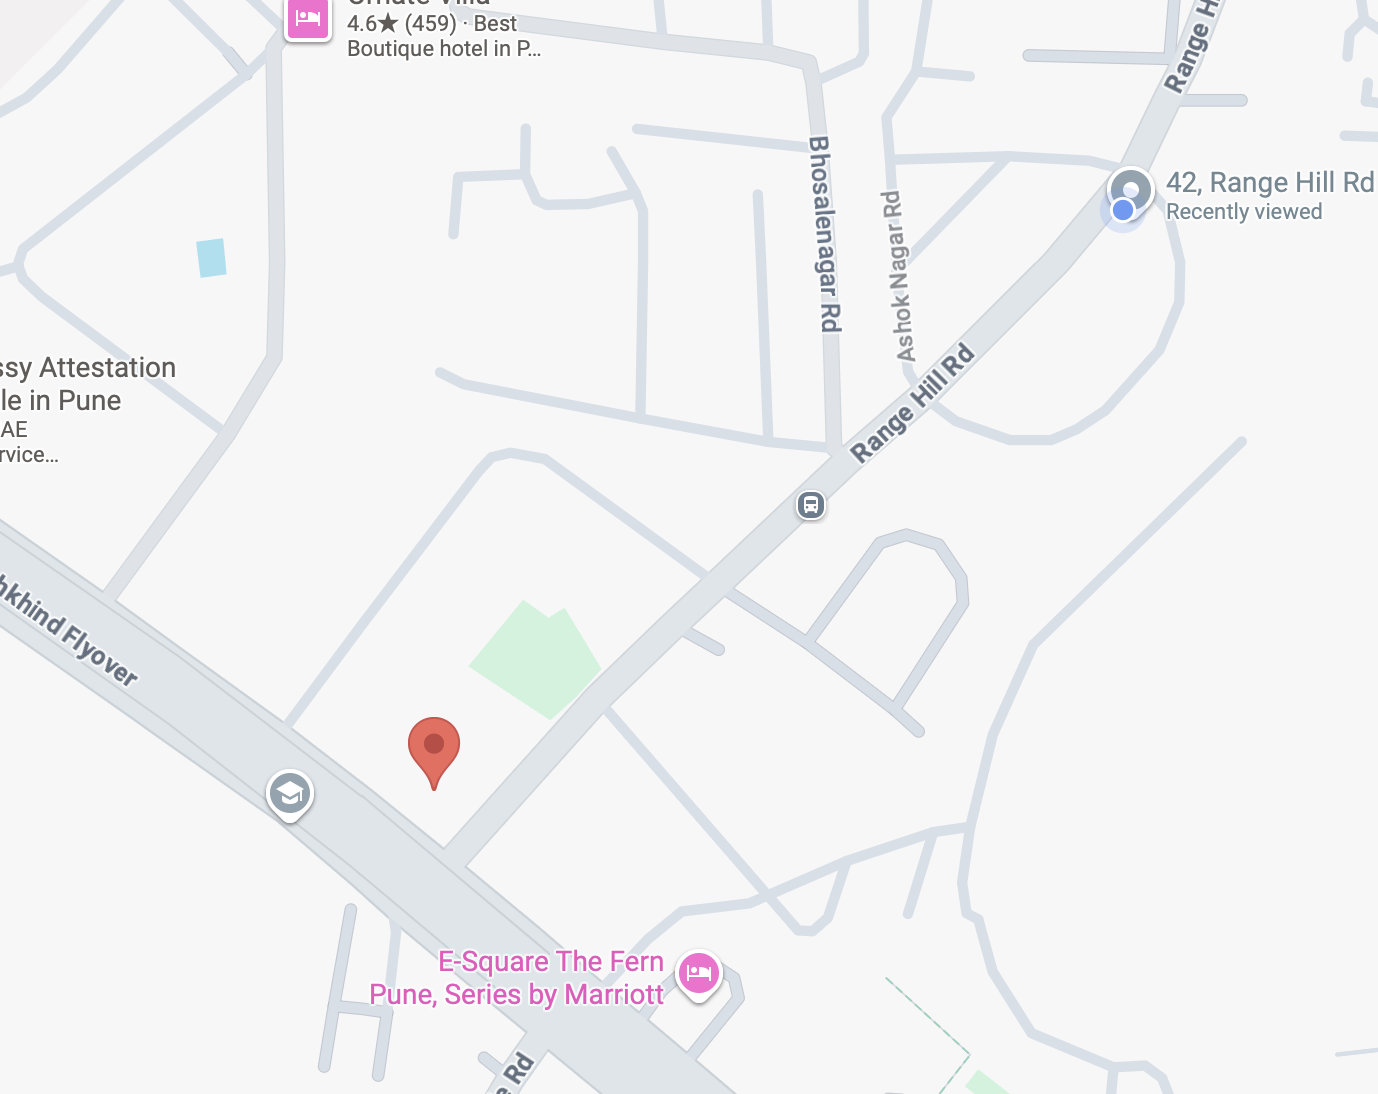
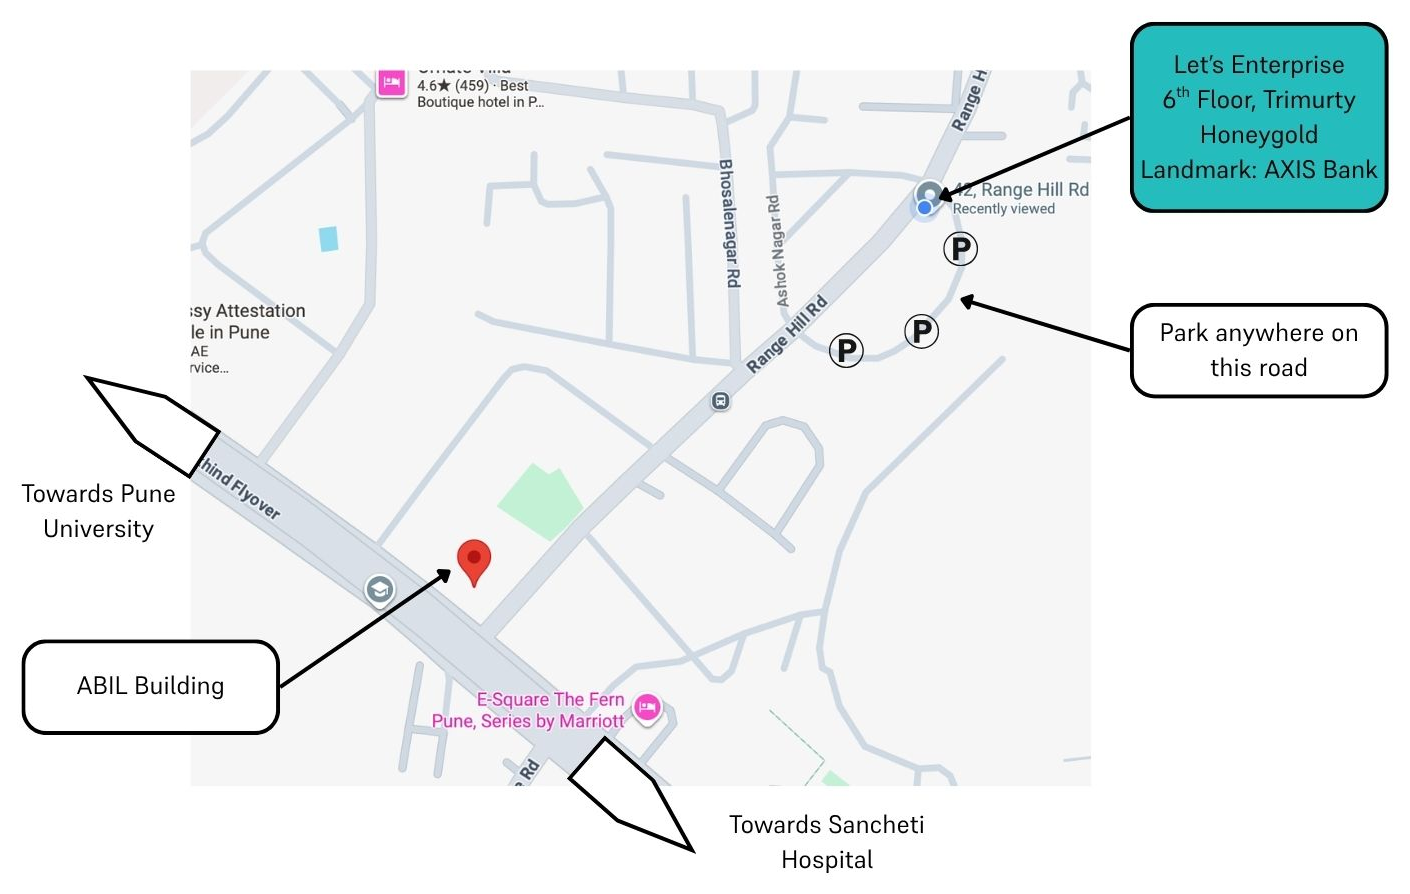
ai-founders: replace venue map with cropped annotated map, remove redundant SVG overlay

diff --git a/ai-founders/index.html b/ai-founders/index.html
@@ -212,16 +212,7 @@
     <div class="kicker">Getting there</div>
     <h2>Trimurty Honeygold · 6th floor</h2>
     <div class="mapbox">
-      <img src="venue-map.png" alt="Map showing Let's Enterprise at Trimurty Honeygold off Range Hill Road, Bhosalenagar, with ABIL House and parking">
-      <svg viewBox="0 0 1378 1094" preserveAspectRatio="xMidYMid meet" xmlns="http://www.w3.org/2000/svg" font-family="Inter, sans-serif" role="img" aria-label="L marks Let's Enterprise, A marks ABIL House, P marks parking along the loop road">
-        <path d="M 1115 215 C 1180 225 1212 268 1206 306 C 1201 360 1190 406 1140 426 C 1090 442 1038 410 1029 350 C 1021 300 1041 254 1086 235 C 1099 229 1108 221 1115 215 Z" fill="#E8632A" fill-opacity="0.12" stroke="#E8632A" stroke-opacity="0.6" stroke-width="22" stroke-linejoin="round"/>
-        <g transform="translate(1115 438)"><circle r="27" fill="#E8632A" stroke="#fff" stroke-width="3"/><text y="10" text-anchor="middle" font-size="30" font-weight="700" fill="#fff" font-family="DM Serif Display, serif">P</text></g>
-        <g transform="translate(1115 484)"><rect x="-78" y="-15" width="156" height="30" rx="9" fill="#16213E"/><text x="0" y="6" text-anchor="middle" font-size="18" font-weight="700" fill="#fff">Parking · self-drive</text></g>
-        <g transform="translate(1125 200)"><circle r="29" fill="#D4A843" stroke="#16213E" stroke-width="3"/><text y="11" text-anchor="middle" font-size="32" font-weight="700" fill="#16213E" font-family="DM Serif Display, serif">L</text></g>
-        <g transform="translate(1125 150)"><rect x="-132" y="-30" width="264" height="48" rx="10" fill="#FFFDF8" stroke="#16213E" stroke-width="2.5"/><text x="0" y="-8" text-anchor="middle" font-size="19" font-weight="700" fill="#1A1A2E" font-family="DM Serif Display, serif">Let&#39;s Enterprise</text><text x="0" y="11" text-anchor="middle" font-size="14.5" font-weight="700" fill="#16213E">Trimurty Honeygold · 6th floor</text></g>
-        <g transform="translate(435 752)"><circle r="29" fill="#16213E" stroke="#D4A843" stroke-width="4"/><text y="11" text-anchor="middle" font-size="32" font-weight="700" fill="#fff" font-family="DM Serif Display, serif">A</text></g>
-        <g transform="translate(435 808)"><rect x="-70" y="-15" width="140" height="30" rx="9" fill="#fff" stroke="#16213E" stroke-width="2"/><text x="0" y="6" text-anchor="middle" font-size="17" font-weight="700" fill="#16213E">ABIL House</text></g>
-      </svg>
+      <img src="venue-map.png" alt="Map: Let's Enterprise at Trimurty Honeygold (6th floor, landmark AXIS Bank) off Range Hill Road, Bhosalenagar. Park anywhere on the loop road; ABIL House nearby; routes towards Pune University and Sancheti Hospital marked.">
     </div>
     <div style="margin-top:18px;">
       <div class="vrow"><span class="ic">◆</span><div><b>Trimurty Honeygold, 6th Floor.</b> Bhosalenagar, Pune. Easiest landmark, the building with <b>AXIS Bank</b> in it.</div></div>
